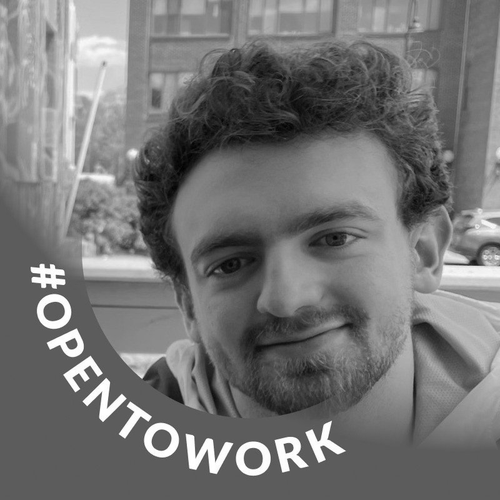
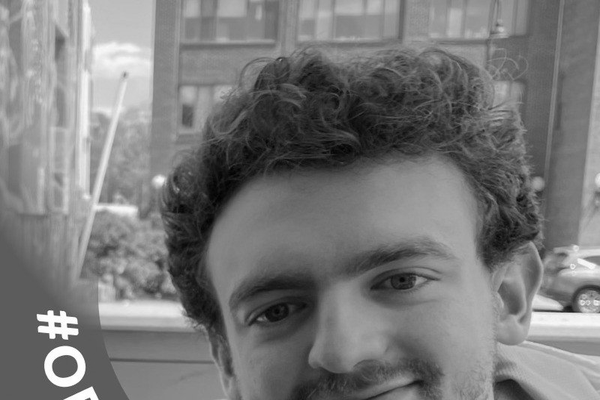
Team photos: fix face visibility
- Card photos back to 1:1 aspect ratio (square)
- object-position: center 20% (biased toward face)
- Andrew: re-cropped to top 68%, position center 10% to hide OpenToWork banner
- All faces should be fully visible in cards now

diff --git a/team.html b/team.html
@@ -344,7 +344,7 @@ nav {
 
 /* Photo area */
 .ext-card-photo {
-  width: 100%; aspect-ratio: 4/3;
+  width: 100%; aspect-ratio: 1/1;
   background: linear-gradient(160deg, #e8e7e3 0%, #d8d7d3 60%, #cecdca 100%);
   position: relative; overflow: hidden;
 }
@@ -794,7 +794,7 @@ footer{background:linear-gradient(180deg,#040A0F,#060E14);border-top:1px solid r
       <div class="ext-grid">
 
     <div class="ext-card reveal reveal-delay-1">
-      <div class="ext-card-photo"><img src="team-andrew.png" alt="Andrew Libby" style="width:100%;height:100%;object-fit:cover;object-position:center top;display:block;"></div>
+      <div class="ext-card-photo"><img src="team-andrew.png" alt="Andrew Libby" style="width:100%;height:100%;object-fit:cover;object-position:center 10%;display:block;"></div>
       <div class="ext-card-body">
         <div class="ext-card-header">
           <div class="ext-card-role">Andrew Libby</div>
@@ -806,7 +806,7 @@ footer{background:linear-gradient(180deg,#040A0F,#060E14);border-top:1px solid r
     </div>
 
     <div class="ext-card reveal reveal-delay-2">
-      <div class="ext-card-photo"><img src="team-afiong.png" alt="Afiong Ibio" style="width:100%;height:100%;object-fit:cover;object-position:center top;display:block;"></div>
+      <div class="ext-card-photo"><img src="team-afiong.png" alt="Afiong Ibio" style="width:100%;height:100%;object-fit:cover;object-position:center 20%;display:block;"></div>
       <div class="ext-card-body">
         <div class="ext-card-header">
           <div class="ext-card-role">Afiong Ibio, Esq.</div>
@@ -818,7 +818,7 @@ footer{background:linear-gradient(180deg,#040A0F,#060E14);border-top:1px solid r
     </div>
 
     <div class="ext-card reveal reveal-delay-3">
-      <div class="ext-card-photo"><img src="team-onyia.png" alt="Chibuike Onyia" style="width:100%;height:100%;object-fit:cover;object-position:center top;display:block;"></div>
+      <div class="ext-card-photo"><img src="team-onyia.png" alt="Chibuike Onyia" style="width:100%;height:100%;object-fit:cover;object-position:center 20%;display:block;"></div>
       <div class="ext-card-body">
         <div class="ext-card-header">
           <div class="ext-card-role">Chibuike Onyia, ACA</div>
@@ -842,7 +842,7 @@ footer{background:linear-gradient(180deg,#040A0F,#060E14);border-top:1px solid r
     </div>
 
     <div class="ext-card reveal reveal-delay-2">
-      <div class="ext-card-photo"><img src="team-chisom.png" alt="Chisom Chibuike" style="width:100%;height:100%;object-fit:cover;object-position:center top;display:block;"></div>
+      <div class="ext-card-photo"><img src="team-chisom.png" alt="Chisom Chibuike" style="width:100%;height:100%;object-fit:cover;object-position:center 20%;display:block;"></div>
       <div class="ext-card-body">
         <div class="ext-card-header">
           <div class="ext-card-role">Chisom Chibuike</div>
@@ -854,7 +854,7 @@ footer{background:linear-gradient(180deg,#040A0F,#060E14);border-top:1px solid r
     </div>
 
     <div class="ext-card reveal reveal-delay-3">
-      <div class="ext-card-photo"><img src="team-ebuka.png" alt="Ebuka Ezeh" style="width:100%;height:100%;object-fit:cover;object-position:center top;display:block;"></div>
+      <div class="ext-card-photo"><img src="team-ebuka.png" alt="Ebuka Ezeh" style="width:100%;height:100%;object-fit:cover;object-position:center 20%;display:block;"></div>
       <div class="ext-card-body">
         <div class="ext-card-header">
           <div class="ext-card-role">Ebuka Ezeh</div>
@@ -866,7 +866,7 @@ footer{background:linear-gradient(180deg,#040A0F,#060E14);border-top:1px solid r
     </div>
 
     <div class="ext-card reveal reveal-delay-1">
-      <div class="ext-card-photo"><img src="team-ojima.png" alt="Stanley Ojima" style="width:100%;height:100%;object-fit:cover;object-position:center top;display:block;"></div>
+      <div class="ext-card-photo"><img src="team-ojima.png" alt="Stanley Ojima" style="width:100%;height:100%;object-fit:cover;object-position:center 20%;display:block;"></div>
       <div class="ext-card-body">
         <div class="ext-card-header">
           <div class="ext-card-role">Stanley Ojima</div>
@@ -878,7 +878,7 @@ footer{background:linear-gradient(180deg,#040A0F,#060E14);border-top:1px solid r
     </div>
 
     <div class="ext-card reveal reveal-delay-2">
-      <div class="ext-card-photo"><img src="team-ifeanyi.png" alt="Ifeanyi Anthony" style="width:100%;height:100%;object-fit:cover;object-position:center top;display:block;"></div>
+      <div class="ext-card-photo"><img src="team-ifeanyi.png" alt="Ifeanyi Anthony" style="width:100%;height:100%;object-fit:cover;object-position:center 20%;display:block;"></div>
       <div class="ext-card-body">
         <div class="ext-card-header">
           <div class="ext-card-role">Ifeanyi Anthony Agah</div>
